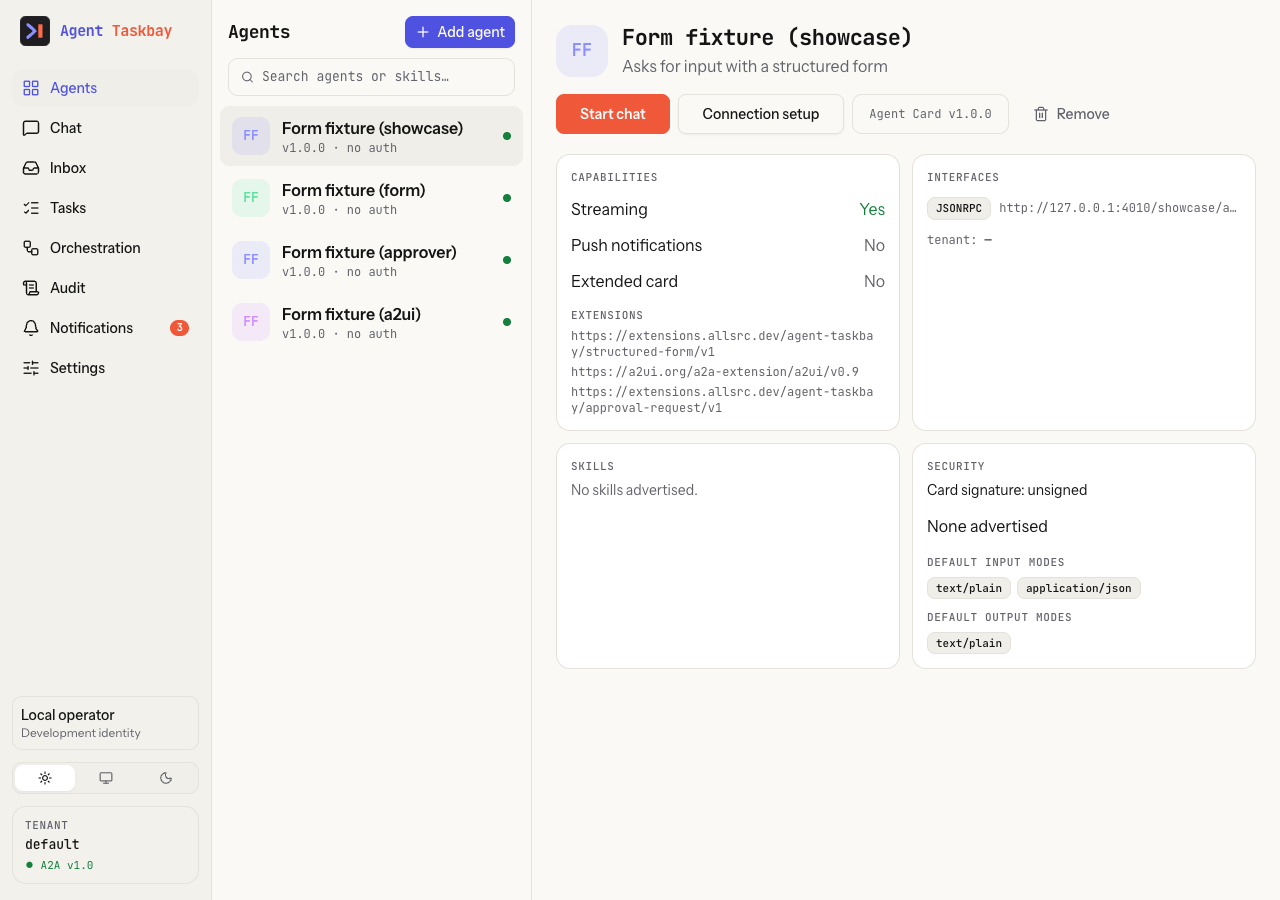
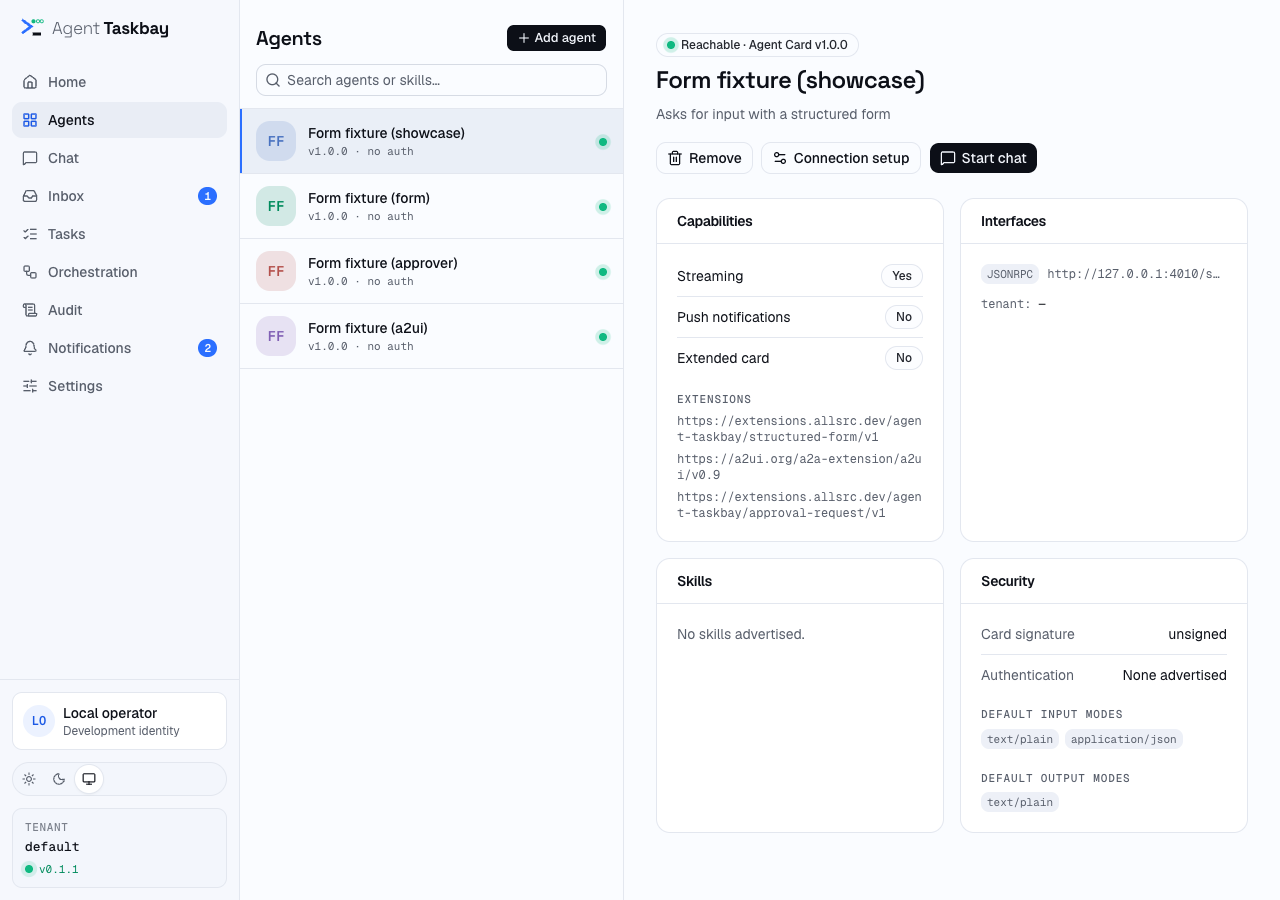
Add a Home screen and refresh the screenshots for the new design.
Home is where the console opens: counts, what needs you, recent conversations and the connected agents. Forms rendered in chat now use the design system's select. README and the console guide carry new screenshots.

diff --git a/src/app/page.tsx b/src/app/page.tsx
@@ -1,5 +1,213 @@
-import { redirect } from "next/navigation";
+"use client";
 
-export default function Home() {
-  redirect("/chat");
+import { useMemo } from "react";
+import Link from "next/link";
+import type { Route } from "next";
+import { useShallow } from "zustand/react/shallow";
+import { Bell, Bot, ClipboardCheck, Inbox, ListChecks, MessageSquare, Plus, ScrollText, SearchCheck, ShieldCheck } from "lucide-react";
+import { AgentAvatar, StateChip } from "@/components/a2a/primitives";
+import { DecisionStatusChip, RiskChip } from "@/components/approvals/badges";
+import { Page } from "@/components/console/page";
+import { cardSurface } from "@/components/patterns/card-surface";
+import { ListSkeleton } from "@/components/patterns/collections";
+import { StatTile } from "@/components/patterns/data-display";
+import { Panel } from "@/components/patterns/layout";
+import { Eyebrow, Tag } from "@/components/patterns/status";
+import { buttonVariants } from "@/components/ui/button";
+import { groupConversations } from "@/lib/conversations";
+import { inboxHref } from "@/lib/inbox-view";
+import { isActiveState, relativeTime } from "@/lib/task-view";
+import { useServerResource } from "@/lib/use-server-resource";
+import type { DecisionStatus } from "@/shared/decision-types";
+import type { InboxPageView } from "@/shared/inbox-types";
+import type { InboxPage } from "@/shared/notification-types";
+import { useAgentStore } from "@/store/agent-store";
+import { useTaskStore } from "@/store/task-store";
+import { cn } from "@/lib/utils";
+
+const ABOUT = [
+  { icon: SearchCheck, title: "Discover", text: "Connect any A2A agent by its Agent Card and see what it can do." },
+  { icon: ListChecks, title: "Operate", text: "Send work, follow durable tasks, and resume where you left off." },
+  { icon: ShieldCheck, title: "Decide", text: "Review the exact action an agent proposes before it is sent." },
+  { icon: ScrollText, title: "Audit", text: "A permanent record of who did what, and when." },
+];
+
+const STEPS = [
+  { title: "Connect an agent", text: "Add one by its Agent Card URL.", href: "/agents", cta: "Add an agent", icon: Plus },
+  { title: "Give it work", text: "Start a chat and ask it to do something.", href: "/chat", cta: "Open chat", icon: MessageSquare },
+  { title: "Decide what needs you", text: "Approvals and input requests collect in your inbox.", href: "/inbox", cta: "Open inbox", icon: Inbox },
+];
+
+/** The console's home: what needs you, what is running, and where to start. */
+export default function HomePage() {
+  const agents = useAgentStore((state) => state.agents);
+  const agentsStatus = useAgentStore((state) => state.status);
+  const tasks = useTaskStore(useShallow((state) => Object.values(state.tasks)));
+  const tasksLoaded = useTaskStore((state) => state.loaded);
+  const needs = useServerResource<InboxPageView>("/api/inbox?view=needs-input&limit=20");
+  const unread = useServerResource<InboxPage>("/api/notifications?limit=1&unread=true");
+  const conversations = useMemo(() => groupConversations(tasks).slice(0, 5), [tasks]);
+
+  const reachable = agents.filter((agent) => agent.view);
+  const active = tasks.filter((task) => task.kind !== "message" && isActiveState(task.state)).length;
+  const waiting = needs.data?.items ?? [];
+  const loadingAgents = agentsStatus === "idle" || agentsStatus === "loading";
+  const noAgents = !loadingAgents && agents.length === 0;
+
+  return (
+    <Page
+      size="default"
+      title="Agent Taskbay"
+      description="The operations console for A2A agent workflows. Connect agents, follow their tasks, decide what needs a person, and keep the record."
+      actions={
+        <>
+          <Link href={"/agents" as Route} className={buttonVariants({ variant: "outline" })}><Plus /> Add agent</Link>
+          <Link href={"/chat" as Route} className={buttonVariants()}><MessageSquare /> Start a chat</Link>
+        </>
+      }
+    >
+      <div className="mb-6 grid grid-cols-2 gap-3 lg:grid-cols-4">
+        <Link href={"/agents" as Route} className="rounded-xl outline-none focus-visible:ring-3 focus-visible:ring-ring/50">
+          <StatTile className="h-full transition-colors hover:border-border-strong" icon={Bot} label="Agents reachable" value={loadingAgents ? "–" : `${reachable.length}`} unit={agents.length > reachable.length ? `of ${agents.length}` : undefined} />
+        </Link>
+        <Link href={"/inbox" as Route} className="rounded-xl outline-none focus-visible:ring-3 focus-visible:ring-ring/50">
+          <StatTile className="h-full transition-colors hover:border-border-strong" icon={ClipboardCheck} label="Needs you" value={needs.loading ? "–" : `${waiting.length}`} />
+        </Link>
+        <Link href={"/tasks" as Route} className="rounded-xl outline-none focus-visible:ring-3 focus-visible:ring-ring/50">
+          <StatTile className="h-full transition-colors hover:border-border-strong" icon={ListChecks} label="Active tasks" value={tasksLoaded ? `${active}` : "–"} />
+        </Link>
+        <Link href={"/notifications" as Route} className="rounded-xl outline-none focus-visible:ring-3 focus-visible:ring-ring/50">
+          <StatTile className="h-full transition-colors hover:border-border-strong" icon={Bell} label="Unread notifications" value={unread.loading ? "–" : `${unread.data?.unread ?? 0}`} />
+        </Link>
+      </div>
+
+      <div className="grid gap-4 lg:grid-cols-3 lg:items-start">
+        <div className="space-y-4 lg:col-span-2">
+          {noAgents ? (
+            <Panel title="Get started" description="Three steps from an empty console to your first decision.">
+              <ol className="space-y-4">
+                {STEPS.map((step, index) => (
+                  <li key={step.title} className="flex items-start gap-3">
+                    <span className="flex size-6 shrink-0 items-center justify-center rounded-full border bg-sunken font-mono text-[11px] text-muted-foreground">{index + 1}</span>
+                    <div className="min-w-0 flex-1">
+                      <div className="text-sm font-medium">{step.title}</div>
+                      <div className="text-sm text-muted-foreground">{step.text}</div>
+                    </div>
+                    <Link href={step.href as Route} className={buttonVariants({ variant: index === 0 ? "default" : "outline", size: "sm" })}><step.icon /> {step.cta}</Link>
+                  </li>
+                ))}
+              </ol>
+            </Panel>
+          ) : (
+            <Panel
+              title="Needs you"
+              description="Approvals to decide and tasks waiting for your input."
+              action={waiting.length > 0 ? <Link href={"/inbox" as Route} className={buttonVariants({ variant: "ghost", size: "sm" })}>Open inbox</Link> : undefined}
+              bodyClassName="p-0 sm:p-0"
+            >
+              {needs.loading ? (
+                <div className="p-4" role="status" aria-label="Loading"><ListSkeleton rows={3} /></div>
+              ) : waiting.length === 0 ? (
+                <p className="px-4 py-8 text-center text-sm text-muted-foreground sm:px-5">You are all caught up. Nothing is waiting for you.</p>
+              ) : (
+                <ul className="divide-y">
+                  {waiting.slice(0, 5).map((item) => (
+                    <li key={`${item.kind}:${item.id}`}>
+                      <Link href={inboxHref(item) as Route} className="flex flex-col gap-1.5 px-4 py-3 transition-colors hover:bg-muted/50 focus-visible:bg-muted sm:px-5">
+                        <span className="flex items-start gap-2">
+                          <span className="min-w-0 flex-1 truncate text-sm font-medium">{item.title}</span>
+                          {item.kind === "approval" ? <DecisionStatusChip status={item.status as DecisionStatus} /> : <StateChip state={item.status} />}
+                        </span>
+                        <span className="flex flex-wrap items-center gap-2 font-mono text-[11px] text-muted-foreground">
+                          <Tag>{item.kind === "approval" ? "Approval" : "Task"}</Tag>
+                          {item.risk && <RiskChip risk={item.risk} />}
+                          <span>{item.agentName} · {relativeTime(item.updatedAt)}</span>
+                        </span>
+                      </Link>
+                    </li>
+                  ))}
+                </ul>
+              )}
+            </Panel>
+          )}
+
+          <Panel
+            title="Recent conversations"
+            action={conversations.length > 0 ? <Link href={"/chat" as Route} className={buttonVariants({ variant: "ghost", size: "sm" })}>All chats</Link> : undefined}
+            bodyClassName="p-0 sm:p-0"
+          >
+            {!tasksLoaded ? (
+              <div className="p-4" role="status" aria-label="Loading"><ListSkeleton rows={3} /></div>
+            ) : conversations.length === 0 ? (
+              <p className="px-4 py-8 text-center text-sm text-muted-foreground sm:px-5">No conversations yet. Start a chat with a connected agent.</p>
+            ) : (
+              <ul className="divide-y">
+                {conversations.map((conversation) => {
+                  const real = conversation.tasks.filter((task) => task.kind !== "message");
+                  const latest = real.at(-1);
+                  return (
+                    <li key={conversation.key}>
+                      <Link href={`/chat/${conversation.key}` as Route} className="flex flex-col gap-1 px-4 py-3 transition-colors hover:bg-muted/50 focus-visible:bg-muted sm:px-5">
+                        <span className="flex items-start gap-2">
+                          <span className="min-w-0 flex-1 truncate text-sm font-medium">{conversation.title}</span>
+                          {latest && <StateChip state={latest.state} />}
+                        </span>
+                        <span className="font-mono text-[11px] text-muted-foreground">
+                          {conversation.agentName} · {real.length} task{real.length === 1 ? "" : "s"} · {relativeTime(conversation.updatedAt)}
+                        </span>
+                      </Link>
+                    </li>
+                  );
+                })}
+              </ul>
+            )}
+          </Panel>
+        </div>
+
+        <div className="space-y-4">
+          <Panel
+            title="Connected agents"
+            action={<Link href={"/agents" as Route} className={buttonVariants({ variant: "ghost", size: "sm" })}>Manage</Link>}
+            bodyClassName="p-0 sm:p-0"
+          >
+            {loadingAgents ? (
+              <div className="p-4" role="status" aria-label="Loading"><ListSkeleton rows={2} /></div>
+            ) : agents.length === 0 ? (
+              <p className="px-4 py-6 text-sm text-muted-foreground">No agents connected yet.</p>
+            ) : (
+              <ul className="divide-y">
+                {agents.slice(0, 6).map((agent) => (
+                  <li key={agent.id}>
+                    <Link href={`/chat?agent=${agent.id}` as Route} className="flex items-center gap-3 px-4 py-2.5 transition-colors hover:bg-muted/50 focus-visible:bg-muted">
+                      <AgentAvatar name={agent.view?.name ?? "Agent"} id={agent.id} size="sm" />
+                      <span className="min-w-0 flex-1">
+                        <span className="block truncate text-sm font-medium">{agent.view?.name ?? "Unreachable agent"}</span>
+                        <span className="block truncate font-mono text-[11px] text-muted-foreground">{agent.view ? `v${agent.view.version}` : (agent.error ?? "discovery failed")}</span>
+                      </span>
+                      <span className={cn("size-2 shrink-0 rounded-full", agent.view ? "bg-signal" : "bg-danger")} aria-label={agent.view ? "Reachable" : "Discovery failed"} />
+                    </Link>
+                  </li>
+                ))}
+              </ul>
+            )}
+          </Panel>
+
+          <section className={cn(cardSurface, "p-4 hover:shadow-none")} aria-label="About Agent Taskbay">
+            <Eyebrow>What it does</Eyebrow>
+            <ul className="mt-3 space-y-3">
+              {ABOUT.map((item) => (
+                <li key={item.title} className="flex items-start gap-3">
+                  <span className="flex size-7 shrink-0 items-center justify-center rounded-lg border bg-sunken text-muted-foreground"><item.icon className="size-3.5" /></span>
+                  <span className="min-w-0 text-sm">
+                    <span className="font-medium">{item.title}</span>
+                    <span className="text-muted-foreground"> · {item.text}</span>
+                  </span>
+                </li>
+              ))}
+            </ul>
+          </section>
+        </div>
+      </div>
+    </Page>
+  );
 }

diff --git a/src/components/app-shell.tsx b/src/components/app-shell.tsx
@@ -4,7 +4,7 @@ import { useEffect, useState } from "react";
 import type { Route } from "next";
 import Link from "next/link";
 import { usePathname } from "next/navigation";
-import { Bell, Inbox, LayoutGrid, ListChecks, MessageSquare, MoreHorizontal, ScrollText, SlidersHorizontal, Workflow, type LucideIcon } from "lucide-react";
+import { Bell, House, Inbox, LayoutGrid, ListChecks, MessageSquare, MoreHorizontal, ScrollText, SlidersHorizontal, Workflow, type LucideIcon } from "lucide-react";
 import { Logo } from "@/components/brand/logo";
 import { MobileTopBar } from "@/components/navigation/mobile-top-bar";
 import { TabBar, type TabBarItem } from "@/components/navigation/tab-bar";
@@ -32,6 +32,7 @@ interface NavItem {
 }
 
 const NAV: NavItem[] = [
+  { href: "/" as Route, label: "Home", short: "Home", icon: House },
   { href: "/agents" as Route, label: "Agents", short: "Agents", icon: LayoutGrid },
   { href: "/chat" as Route, label: "Chat", short: "Chat", icon: MessageSquare },
   { href: "/inbox" as Route, label: "Inbox", short: "Inbox", icon: Inbox },
@@ -51,13 +52,13 @@ function parentOf(pathname: string): Route | null {
 }
 
 /** Tabs pinned to the phone tab bar; everything else lives under "More". */
-const PRIMARY_TABS = new Set<string>(["/chat", "/inbox", "/tasks", "/agents"]);
+const PRIMARY_TABS = new Set<string>(["/", "/chat", "/inbox", "/tasks"]);
 
 function useActive(nav: NavItem[]) {
   const pathname = usePathname() ?? "/";
   // The standalone approvals queue now lives in the inbox, so its review pages keep the Inbox item active.
   const path = pathname === "/approvals" || pathname.startsWith("/approvals/") ? pathname.replace("/approvals", "/inbox") : pathname;
-  return nav.find((item) => path === item.href || path.startsWith(`${item.href}/`));
+  return nav.find((item) => (item.href === "/" ? path === "/" : path === item.href || path.startsWith(`${item.href}/`)));
 }
 
 function CountBadge({ count, label, children }: { count: number; label: string; children: React.ReactNode }) {
@@ -104,7 +105,7 @@ export function AppShell({ children, identity }: { children: React.ReactNode;
     <div className="bg-background text-foreground flex min-h-dvh md:h-dvh md:overflow-hidden">
       <DurableTaskSync />
       <aside className="bg-sidebar border-sidebar-border hidden w-16 shrink-0 flex-col border-r md:flex lg:w-60" data-chrome style={{ viewTransitionName: "side-bar" }}>
-        <Link href={"/chat" as Route} className="flex h-14 items-center justify-center lg:justify-start lg:px-5" aria-label="Agent Taskbay home">
+        <Link href={"/" as Route} className="flex h-14 items-center justify-center lg:justify-start lg:px-5" aria-label="Agent Taskbay home">
           <Logo className="[&>span:last-child]:hidden lg:[&>span:last-child]:inline" />
         </Link>
         <nav className="flex flex-col gap-0.5 px-2 py-2 lg:px-3" aria-label="Primary">
@@ -158,7 +159,7 @@ export function AppShell({ children, identity }: { children: React.ReactNode;
 
       <div className="flex min-w-0 flex-1 flex-col pb-[calc(3.75rem+env(safe-area-inset-bottom))] md:min-h-0 md:pb-0">
         <MobileTopBar
-          homeHref={"/chat" as Route}
+          homeHref={"/" as Route}
           parentOf={parentOf}
           trailing={
             (unread > 0 || pending > 0) && (

diff --git a/src/components/chat/structured-form.tsx b/src/components/chat/structured-form.tsx
@@ -2,6 +2,7 @@
 
 import { useId, useState } from "react";
 import { Button } from "@/components/ui/button";
+import { NativeSelect } from "@/components/ui/native-select";
 import { Input } from "@/components/ui/input";
 import { Textarea } from "@/components/ui/textarea";
 import { initialValues, validateForm, type FormDefinition, type FormErrors, type FormField, type FormSubmission, type FormValues } from "@/lib/structured-form";
@@ -47,7 +48,7 @@ export function FormFields({ form, values, errors, disabled, onChange }: {
           <div key={field.key} className="flex flex-col gap-1">
             {field.type === "boolean" ? (
               <label htmlFor={id} className="flex items-center gap-2 text-sm">
-                <input id={id} type="checkbox" checked={values[field.key] === true} disabled={disabled}
+                <input id={id} type="checkbox" className="size-4 accent-brand" checked={values[field.key] === true} disabled={disabled}
                   onChange={(event) => onChange(field.key, event.target.checked)} />
                 {field.label}
               </label>
@@ -79,11 +80,10 @@ function FieldInput({ id, field, value, disabled, invalid, onChange }: {
         value={value === undefined ? "" : String(value)} disabled={disabled} onChange={(event) => onChange(event.target.value === "" ? undefined : Number(event.target.value))} {...aria} />;
     case "enum":
       return (
-        <select id={id} value={String(value ?? "")} disabled={disabled} onChange={(event) => onChange(event.target.value || undefined)}
-          className="border-input bg-background h-9 rounded-md border px-2 text-sm" {...aria}>
+        <NativeSelect id={id} value={String(value ?? "")} disabled={disabled} onChange={(event) => onChange(event.target.value || undefined)} {...aria}>
           <option value="">Select…</option>
           {field.options.map((option) => <option key={option.value} value={option.value}>{option.label}</option>)}
-        </select>
+        </NativeSelect>
       );
   }
 }

diff --git a/src/components/ui/native-select.tsx b/src/components/ui/native-select.tsx
@@ -1,5 +1,4 @@
 import * as React from "react"
-import { ChevronDownIcon } from "lucide-react"
 import { cn } from "@/lib/utils"
 
 /**
@@ -19,7 +18,8 @@ function NativeSelect({ className, children, ...props }: React.ComponentProps<"s
       >
         {children}
       </select>
-      <ChevronDownIcon className="pointer-events-none absolute top-1/2 right-2.5 size-4 -translate-y-1/2 text-muted-foreground" aria-hidden />
+      {/* A bordered square rather than an icon, so the control never emits <svg> (the form renderer must stay free of media). */}
+      <span aria-hidden className="pointer-events-none absolute top-1/2 right-3 size-1.5 -translate-y-[70%] rotate-45 border-r-[1.5px] border-b-[1.5px] border-muted-foreground" />
     </div>
   )
 }

diff --git a/src/components/chat/chat-landing.tsx b/src/components/chat/chat-landing.tsx
@@ -65,7 +65,7 @@ export function ChatLanding({ agentId }: { agentId?: string }) {
                 <AgentAvatar name={agent.view?.name ?? "Agent"} id={agent.id} />
                 <span className="min-w-0 flex-1">
                   <span className="block truncate text-sm font-medium">{agent.view?.name}</span>
-                  <span className="block truncate text-xs text-muted-foreground">{agent.view?.skills.length ?? 0} skills</span>
+                  <span className="block truncate text-xs text-muted-foreground">{agent.view?.skills.length ? `${agent.view.skills.length} skill${agent.view.skills.length === 1 ? "" : "s"}` : `v${agent.view?.version ?? ""}`}</span>
                 </span>
               </Link>
             ))}

diff --git a/docs/guides/use-the-console.md b/docs/guides/use-the-console.md
@@ -22,11 +22,17 @@ The console is the web app you open in the browser. The sidebar lists its screen
 
 ## The sidebar
 
-On a medium screen the sidebar shrinks to an icon rail; from a large screen it shows labels. The sidebar items are **Agents**, **Chat**, **Inbox**, **Tasks**, **Orchestration**, **Audit**, **Notifications** and **Settings**. **Audit** only appears for administrators. On a phone the bottom bar shows **Chat**, **Inbox**, **Tasks** and **Agents**, plus a **More** tab that opens a sheet with the rest (**Orchestration**, **Audit** for administrators, **Notifications** and **Settings**), your identity menu and the theme switch. A count of pending approvals or unread notifications sits in the top bar.
+On a medium screen the sidebar shrinks to an icon rail; from a large screen it shows labels. The sidebar items are **Home**, **Agents**, **Chat**, **Inbox**, **Tasks**, **Orchestration**, **Audit**, **Notifications** and **Settings**. **Audit** only appears for administrators. On a phone the bottom bar shows **Home**, **Chat**, **Inbox** and **Tasks**, plus a **More** tab that opens a sheet with the rest (**Agents**, **Orchestration**, **Audit** for administrators, **Notifications** and **Settings**), your identity menu and the theme switch. A count of pending approvals or unread notifications sits in the top bar.
 
 **Inbox** shows a badge with the number of pending approvals. **Notifications** shows your unread count (shown as "99+" above 99). The bottom of the sidebar shows your identity menu, a **Light** / **System** / **Dark** theme switch, the tenant of the first agent that reports one, and the version of Agent Taskbay that is running (the package version, for example `v0.1.1`).
 
 Opening the console root (`/`) takes you to **Chat**.
+
+## Home
+
+**Home** is where the console opens. It shows four counts (agents reachable, items that need you, active tasks and unread notifications), each linking to its screen. **Needs you** lists the approvals and input requests waiting on you, **Recent conversations** lists your latest chats, and **Connected agents** lists the catalog with a reachable or failed dot. With no agent connected yet, Home shows a three-step **Get started** panel instead of **Needs you**.
+
+![Home with a pending approval, recent conversations and the connected sample agents](../images/home.png)
 
 ## Agents
 

diff --git a/README.md b/README.md
@@ -13,6 +13,8 @@ forms, approval requests, skill-scoped access) through advertised extensions, an
 same durable tasks. Taskbay does not run your agents. It is the place where people start their work, answer them, approve what they
 propose, and later show what happened.
 
+![The console's home: what needs you, recent conversations and the connected agents](docs/images/home.png)
+
 Created and maintained by [Shashi Kanth G S](https://shashikanth.me), part of [Allsrc](https://allsrc.dev).
 
 > **Status: pre-1.0 (`0.1.1`), published on npm as `agent-taskbay`.** Interfaces, HTTP routes and stored data shapes may change between
@@ -71,7 +73,7 @@ Choose **Fetch Agent Card**, then **Continue**, then **Connect**. The agent page
 please approve the deploy
 ```
 
-**5. Make the decision.** Open **Inbox**. Under **Needs you** there is a pending approval, "Delete the staging cluster", marked **HIGH RISK**.
+**5. Make the decision.** Open **Inbox**. Under **Needs you** there is a pending approval, "Delete the staging cluster", marked **High risk**.
 Open it, review the proposed action, choose **Approve**, and confirm.
 
 ![Pending approval for Delete the staging cluster, marked high risk, with the exact action under review](docs/images/approval.png)

diff --git a/CHANGELOG.md b/CHANGELOG.md
@@ -5,7 +5,13 @@ the project uses [semantic versioning](https://semver.org/) once it reaches 1.0;
 
 ## [Unreleased]
 
+### Added
+
+- A Home screen where the console opens: counts of agents, items that need you, active tasks and unread notifications, the items waiting on you, recent conversations and the connected agents, with a get-started panel before any agent is connected.
+
 ### Changed
+
+- Refreshed the screenshots in the README and the console guide for the new design.
 
 - The console moved to the http2xx design system: new tokens, light and dark themes, Base UI components, Geist and Space Grotesk type, every screen rebuilt on shared page and list-and-detail layouts, and responsive navigation (a sidebar, an icon rail on medium screens, and a bottom tab bar with a More sheet on phones). In chat, the agent's in-between status updates fold into a Progress log and artifacts show as a highlighted Result card. The sidebar shows the running package version. No API or data changed.
 
